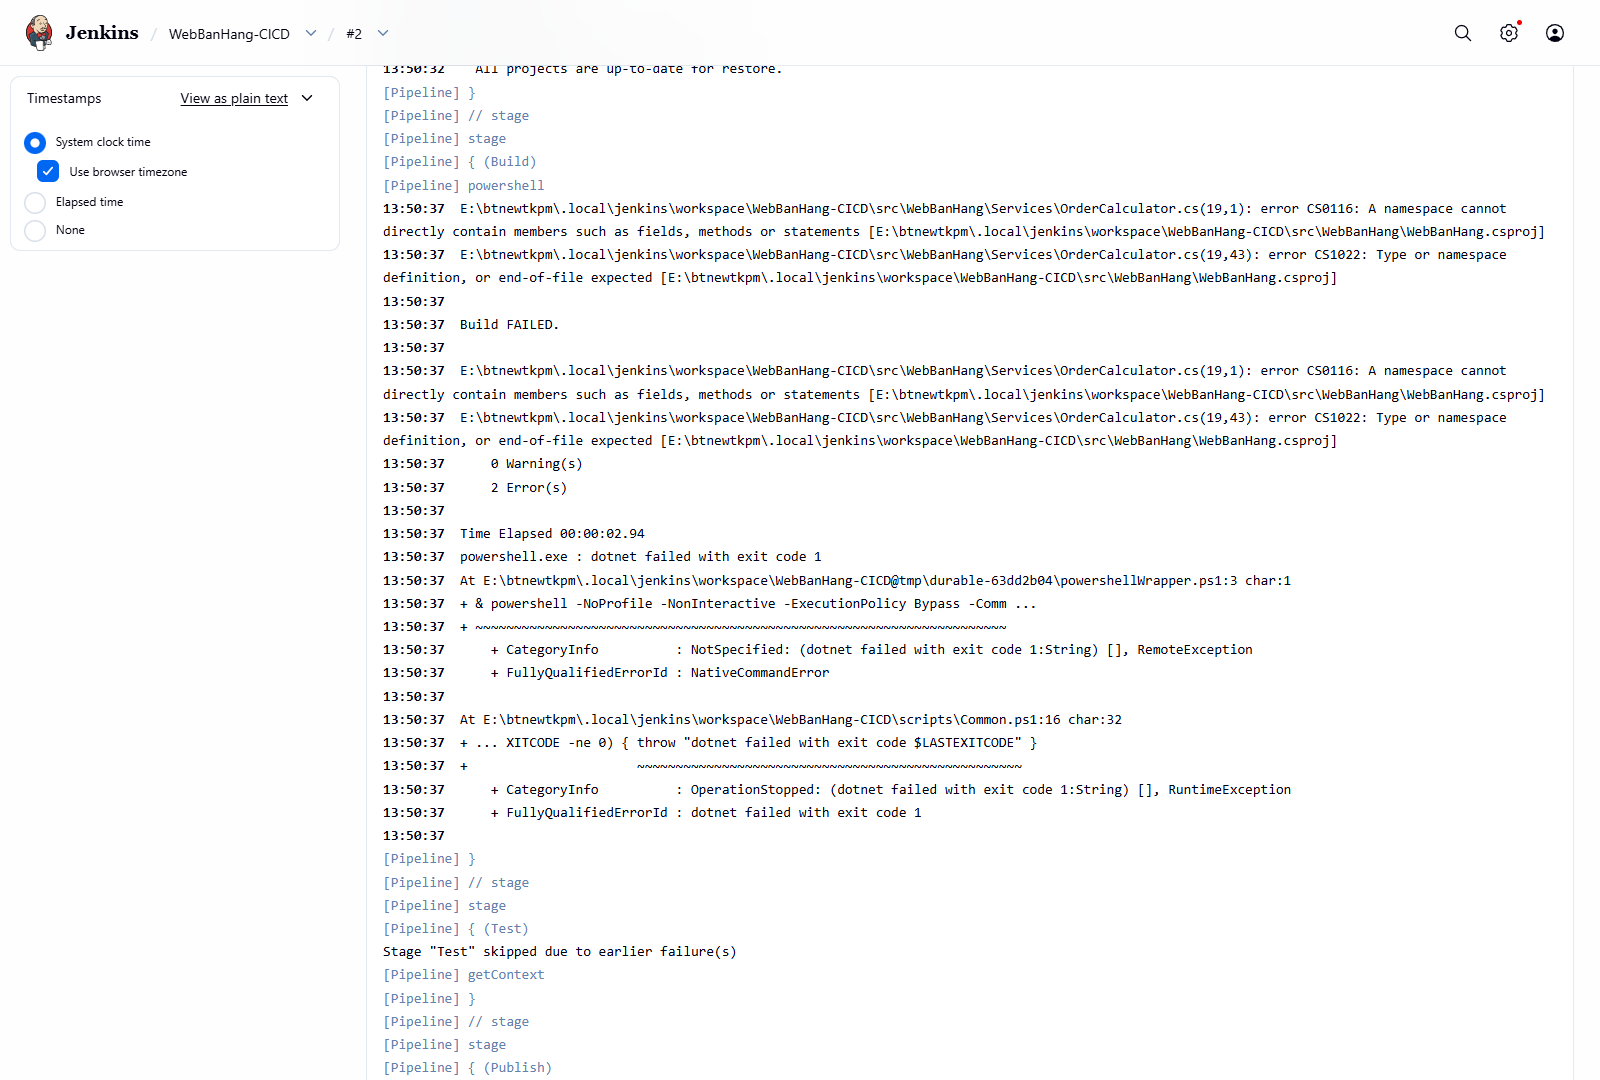
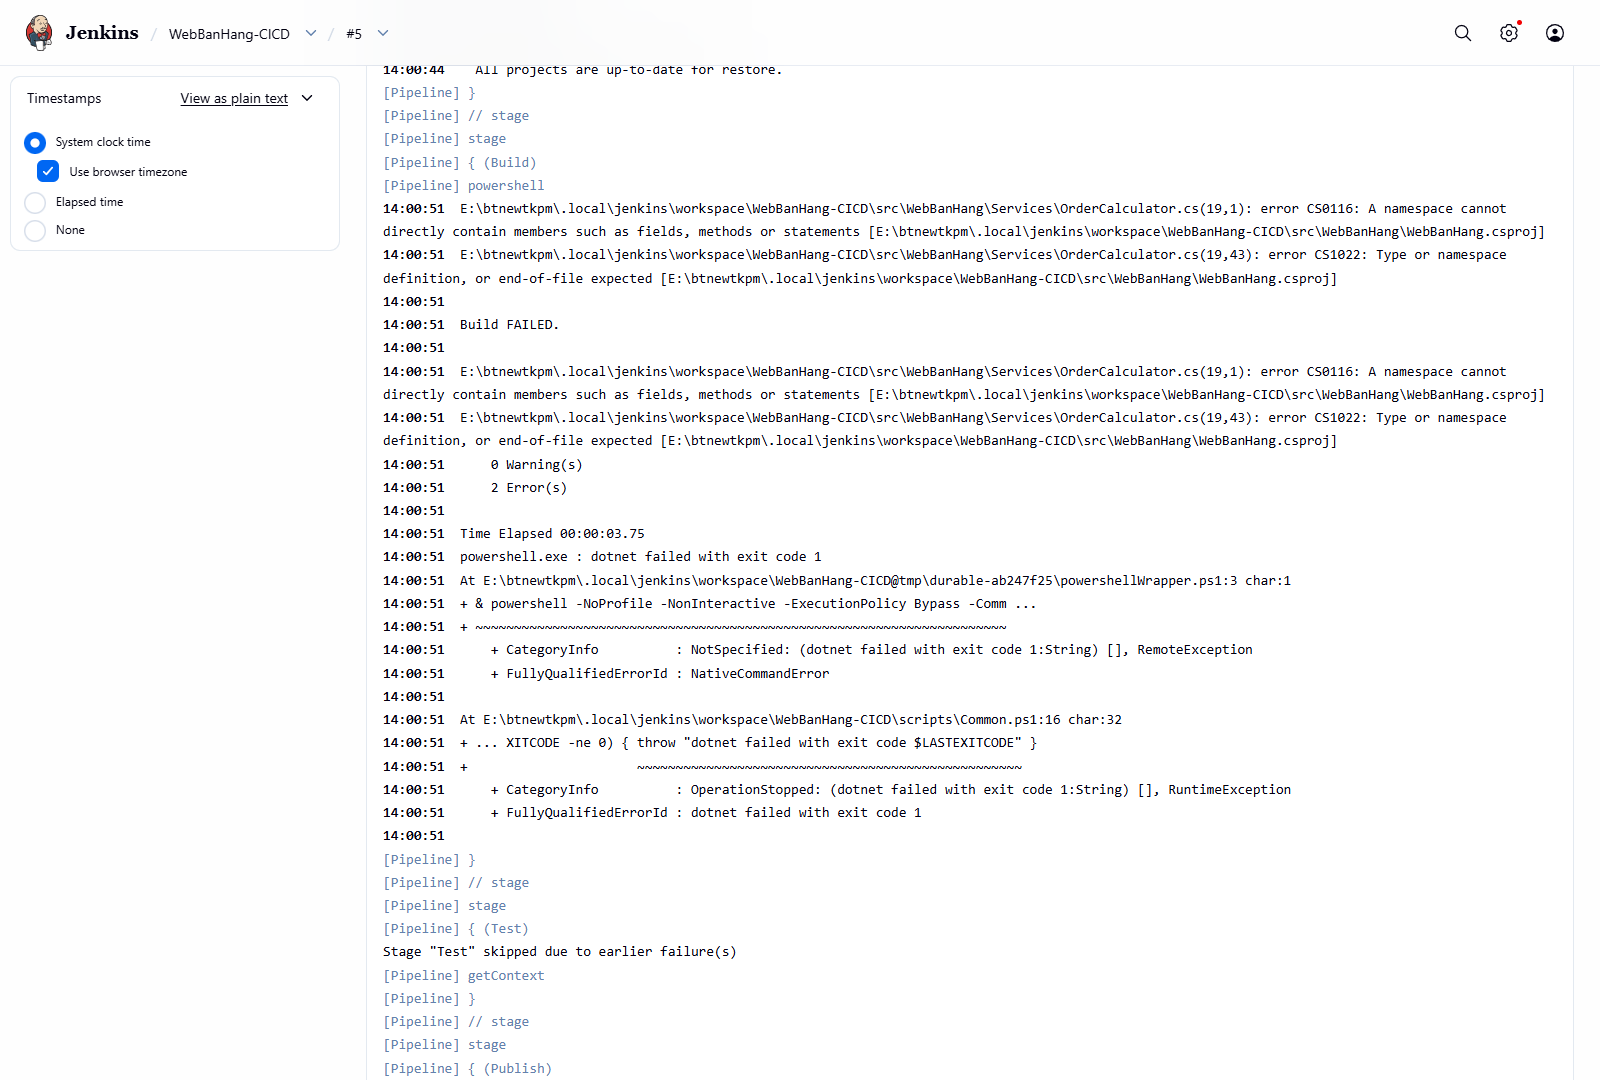
docs: finalize classroom walkthrough and verified Jenkins results

diff --git a/docs/DEMO-NHANH.md b/docs/DEMO-NHANH.md
@@ -1,0 +1,38 @@
+# Demo nhanh trên máy hiện tại
+
+Đã làm sẵn mã nguồn, GitHub private, Jenkins portable và các nhánh lỗi. Máy hiện tại chưa có IIS: các bước dưới đây chứng minh ứng dụng và CI. Muốn trình bày đầy đủ CD lên IIS theo đề, làm phần 3–6 trong [hướng dẫn đầy đủ](HUONG-DAN-DEMO.md) trên máy có IIS.
+
+## Trước giờ học
+
+1. Nhấp đúp `CHAY-DEMO.cmd`, giữ cửa sổ mở → http://localhost:5080/webbanhang.
+2. Jenkins hiện đang chạy → http://localhost:8080/job/WebBanHang-CICD/. Nếu đã tắt, nhấp đúp `CHAY-JENKINS.cmd`.
+3. Mở `.local/jenkins-login.json` bằng Notepad để lấy username/password. Không chụp hoặc chia sẻ file này trong bài nộp.
+4. Mở [GitHub](https://github.com/huybitvvt/WebBanHang-CICD), Jenkins và website thành ba tab.
+
+## Thao tác và lời nói
+
+| Phần | Thao tác | Nói ngắn |
+|---|---|---|
+| 1. Ứng dụng | Tạo danh mục; tạo sản phẩm giá 100000, tồn 10; tạo đơn số lượng 2, giảm 10%; kiểm tra tổng 180000 và tồn 8; hủy đơn, tồn về 10 | “MVC quản lý danh mục, sản phẩm, đơn hàng; SQLite lưu dữ liệu; tính tiền và kiểm kho ở server.” |
+| 2. CI thành công | Jenkins → Build with Parameters → SOURCE_BRANCH=main, DEPLOY_TO_IIS=false → Build → xem Checkout/Restore/Build/Test/Publish xanh | “Jenkins lấy mã thật từ GitHub, build Release, chạy 30 test và publish.” |
+| 3. Lỗi biên dịch | Chọn demo/build-failure → Build → mở Console Output, trỏ lỗi CS0116/CS1022 | “Compiler trả lỗi nên pipeline dừng trước Test và Publish.” |
+| 4. Lỗi nghiệp vụ | Chọn demo/test-failure → Build → mở Console Output, trỏ Expected 180000 / Actual 220000 | “Build vẫn đúng cú pháp, nhưng unit test chặn công thức giảm giá sai.” |
+
+Stage View có thể tô đỏ cả các stage sau lỗi. Console Output ghi rõ các stage bị skip do lỗi trước đó; kiểm tra dòng `Stage "Publish" skipped due to earlier failure(s)`.
+
+## Webhook sau khi đã cấu hình ngrok
+
+Nhấp đúp `CHAY-WEBHOOK.cmd`, giữ cửa sổ mở. Script tự tạo/cập nhật webhook của repo và gửi ping, không công khai giao diện Jenkins.
+
+Tạo nhánh, sửa `Store:Announcement` trong `src/WebBanHang/appsettings.json`, push và tạo PR vào main. Merge PR → Jenkins phải tự sinh build. Kiểm tra GitHub → Settings → Webhooks → Recent Deliveries.
+
+Ngrok ban đầu chưa đăng nhập (ERR_NGROK_4018). Người dùng tự cấu hình authtoken bằng terminal riêng. Bản web Kestrel từ CHAY-DEMO không tự cập nhật sau build CI; cập nhật web tự động trong đề phải chứng minh trên IIS.
+
+## Tệp để trình chiếu/nộp
+
+- [Jenkinsfile](../Jenkinsfile).
+- [Báo cáo kiểm thử](BAO-CAO-KIEM-THU.md).
+- [Ảnh ứng dụng/Jenkins thật](evidence/README.md).
+- [Hướng dẫn IIS, webhook và toàn bộ kịch bản](HUONG-DAN-DEMO.md).
+
+Repo private đã có ba nhánh feature/PR minh họa và hai nhánh lỗi. Ba sinh viên cần đóng góp bằng tài khoản thật; các PR hiện có đều từ một tài khoản.

diff --git a/docs/BAO-CAO-KIEM-THU.md b/docs/BAO-CAO-KIEM-THU.md
@@ -27,10 +27,12 @@ Nhật ký/TRX sinh tại `artifacts/` (không đưa output build vào Git). Ả
 | Nhánh sai tính tiền | Build PASS, Test FAIL 4/28 đúng dự kiến; kỳ vọng 180000, thực tế 220000; bản Kestrel nền giữ nguyên |
 | Đồng bộ file và rollback deploy | 3/3 kiểm tra Node PASS (gồm test cha), dùng robocopy thật và HTTP endpoint giả lập; giữ App_Data, logs, config Production, thay code và khôi phục code khi version sai |
 | Verify trên bản publish Kestrel | PASS: health/database, homepage=200, CSS=200 dưới /webbanhang |
-| Jenkins Job thực tế | PASS: job WebBanHang-CICD lấy mã từ GitHub private, build #1 main SUCCESS, #2 lỗi cú pháp FAILURE tại Build, #3 sai công thức FAILURE tại Test; Deploy/Verify tắt vì chưa có IIS |
+| Jenkins Job thực tế | PASS: lượt cuối #4 main SUCCESS, #5 lỗi cú pháp FAILURE tại Build, #6 sai công thức FAILURE tại Test; lấy mã từ GitHub private; Deploy/Verify tắt vì chưa có IIS. Lịch sử #1–#3 cũng có đủ ba kết quả tương ứng |
 | Khởi động lại Jenkins | Cấu hình đăng nhập, Credentials và lịch sử build được lưu; khởi động qua CHAY-JENKINS.cmd/scripts/Start-Jenkins.ps1 |
+| Bản publish do Jenkins tạo | Chạy thật bằng Kestrel, Healthy, version 1.0.4+70478451f3037492c26dfa10896742ee6cbb9f30; sau #5 và #6 vẫn Healthy và version không đổi |
+| Theo dõi main sau nhánh lỗi | Đã kiểm tra metadata Jenkins: checkout main có polling baseline; checkout nhánh lỗi không có baseline, không thay nhánh đang được theo dõi |
 | IIS thực tế | Chưa chạy; cần máy hỗ trợ IIS + quyền admin |
-| Webhook GitHub qua Internet | Chưa chạy; cần Jenkins, ngrok và secret |
+| Webhook GitHub qua Internet | Chưa xác minh; chờ người dùng cấu hình ngrok. Jenkins và relay đã có |
 
 ## Ba tình huống phải chụp trên Jenkins/IIS
 

diff --git a/docs/evidence/README.md b/docs/evidence/README.md
@@ -7,7 +7,7 @@ Các ảnh PNG đều là ảnh chụp trình duyệt Edge thật. Ảnh 01–05
 - `03-don-hang-180000.png`: đơn hai sản phẩm giá 100.000, giảm 10%, tổng 180.000.
 - `04-tong-quan-mobile.png`: dashboard 375px.
 - `05-tao-don-mobile.png`: form tạo đơn 375px.
-- `06-jenkins-stage-view.png`: lịch sử ba lần chạy thật (#1 SUCCESS, #2/#3 FAILURE); Deploy/Verify ở build #1 bị tắt vì máy chưa có IIS.
+- `06-jenkins-stage-view.png`: lịch sử chạy thật; lượt cuối #4 SUCCESS, #5/#6 FAILURE; Deploy/Verify ở build #4 bị tắt vì máy chưa có IIS.
 - `07-jenkins-job-config.png`: Job WebBanHang-CICD, GitHub SCM, main và Jenkinsfile.
 - `08-jenkins-build-failure.png`: compiler phát hiện lỗi cú pháp trên nhánh demo/build-failure.
 - `09-jenkins-test-failure.png`: Build thành công nhưng test tính giảm giá thất bại.

diff --git a/README.md b/README.md
@@ -4,7 +4,7 @@
 
 Repository: https://github.com/huybitvvt/WebBanHang-CICD (private).
 
-**Bắt đầu đọc [hướng dẫn demo trên lớp](docs/HUONG-DAN-DEMO.md).** Có đầy đủ chuẩn bị môi trường, lời thuyết trình, lệnh thao tác và ba tình huống thành công/thất bại.
+**Bắt đầu đọc [demo nhanh trên máy này](docs/DEMO-NHANH.md).** [Hướng dẫn đầy đủ](docs/HUONG-DAN-DEMO.md) có chuẩn bị IIS, lời thuyết trình, lệnh thao tác và ba tình huống thành công/thất bại.
 
 Trên máy hiện tại có thể nhấp đúp **CHAY-DEMO.cmd** để chạy. Giữ cửa sổ mở và truy cập URL bên dưới.
 
